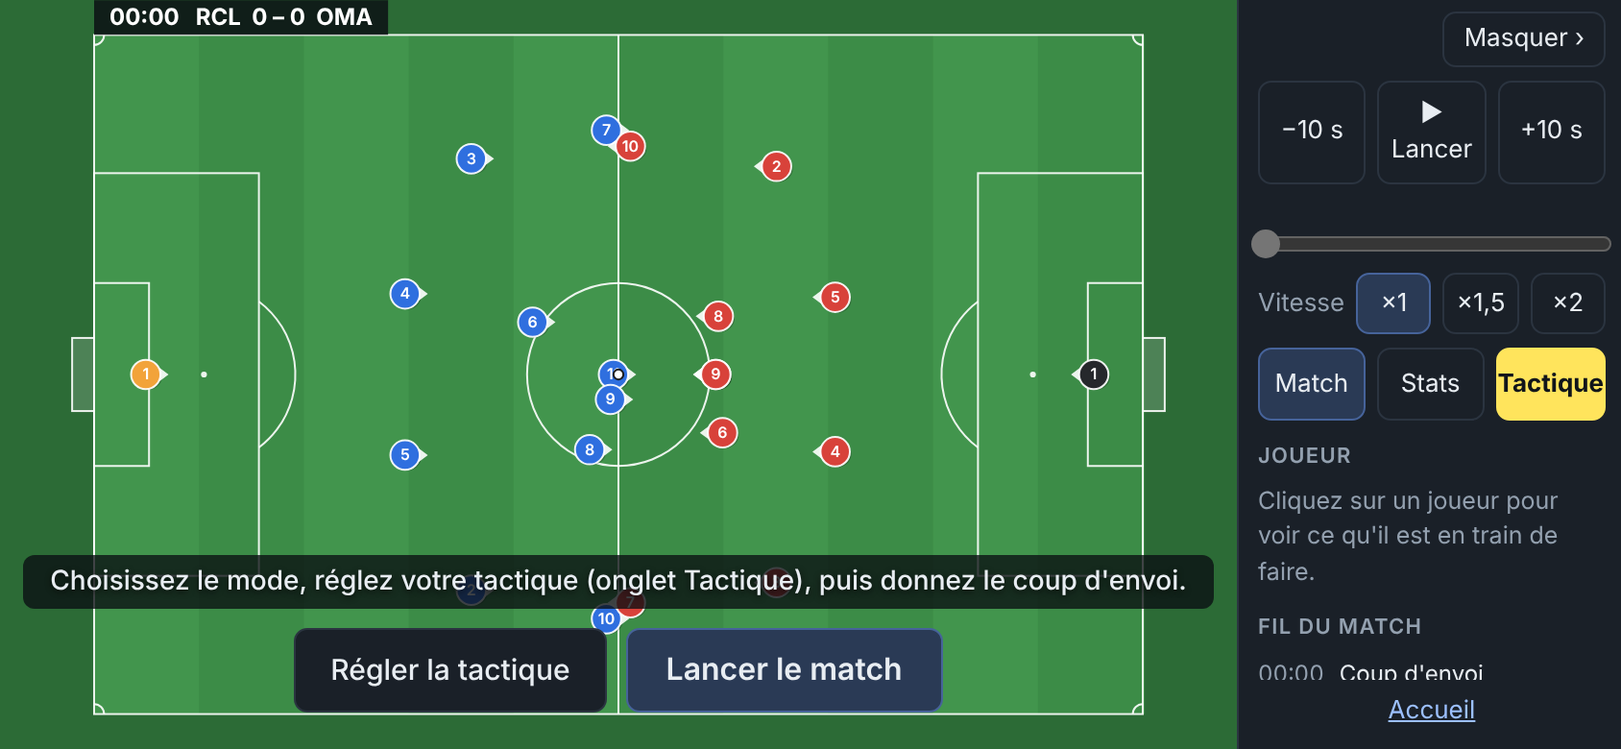
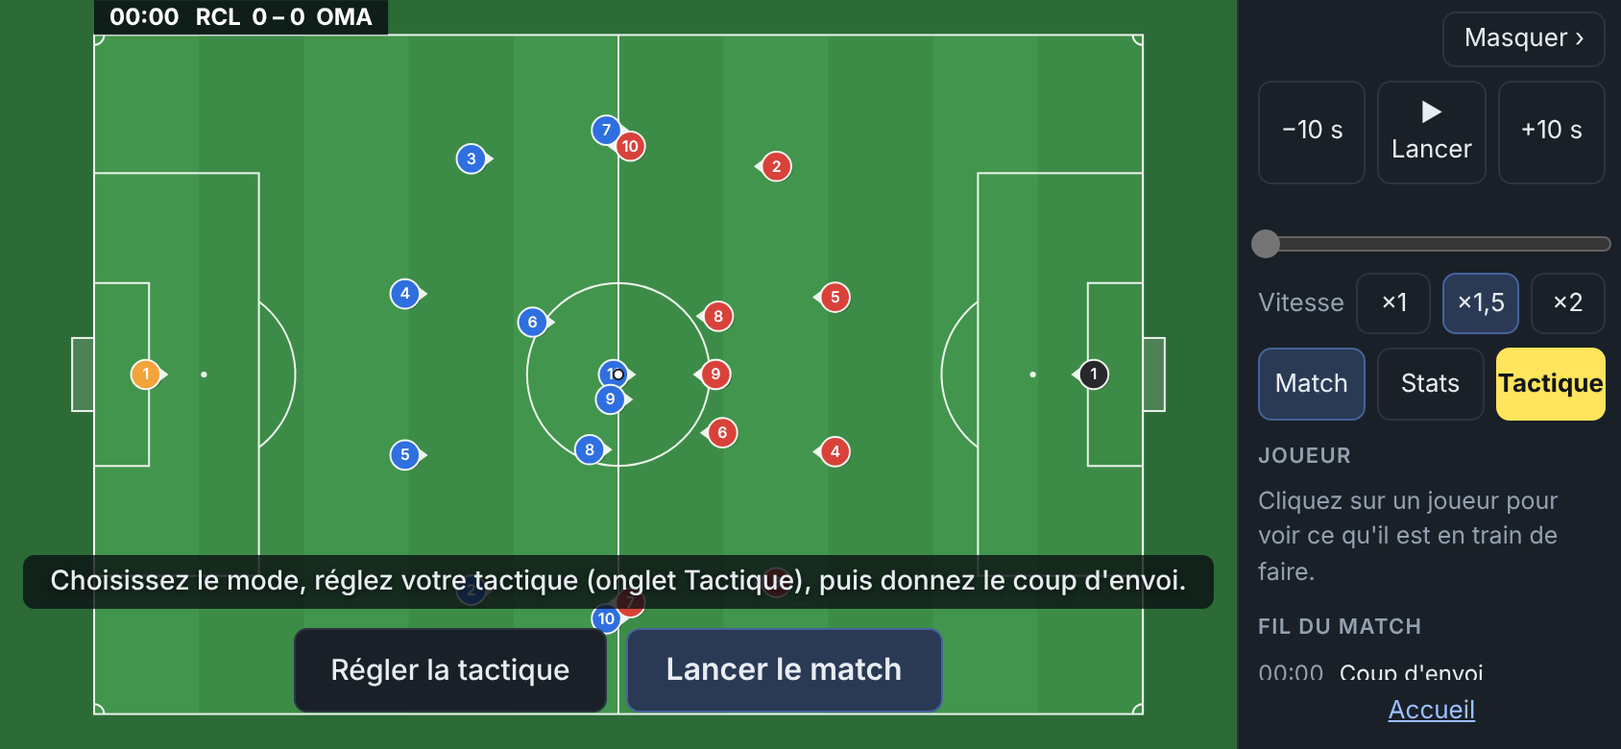
Temps faibles lus à ×10 et vitesse ×1,5 par défaut
Claude-Session: https://claude.ai/code/session_01JE8fKzMuvQtjsPz4c7PEni

Changed region(s): [[0.8318, 0.3385, 0.955, 0.4615]]

diff --git a/match.html b/match.html
@@ -261,7 +261,7 @@
       <div class="pre" id="pre" hidden><div>Choisissez le mode, réglez votre tactique (onglet Tactique), puis donnez le coup d'envoi.</div><div class="row"><button id="preTac">Régler la tactique</button><button id="kick" class="main">Lancer le match</button></div></div>
       <div class="busy" id="busy" hidden><div class="spin" aria-hidden="true"></div><span>Calcul du match…</span></div>
       <div class="tip" id="tip" hidden></div>
-      <div class="ff" id="ff" hidden>⏩ temps faible ×8</div>
+      <div class="ff" id="ff" hidden>⏩ temps faible ×10</div>
       <div class="tacview" id="tacView" hidden>
         <div class="tvpitch">
           <div class="tvhead"><button class="phoneonly" id="tvBack">← Retour au match</button><span class="group godonly" id="tvTeams"><button data-tv-team="0" class="on">Bleus</button><button data-tv-team="1">Rouges</button></span><span class="tvforms" id="tvForms"></span></div>
@@ -309,12 +309,12 @@
       <button id="play">Pause</button>
       <span class="group"><button id="back" title="Reculer de 10 secondes">−10 s</button><button id="fwd" title="Avancer de 10 secondes">+10 s</button></span>
       <span class="group">Vitesse
-        <button data-speed="1" class="on">×1</button><button data-speed="1.5">×1,5</button><button data-speed="2">×2</button>
+        <button data-speed="1">×1</button><button data-speed="1.5" class="on">×1,5</button><button data-speed="2">×2</button>
       </span>
       <label class="godonly"><input type="checkbox" id="intents"> Montrer où chaque joueur veut aller</label>
       <label class="godonly"><input type="checkbox" id="labels"> Montrer l'intention de chaque joueur</label>
       <label title="Pendant un arrêt de jeu (touche, coup franc, sortie de but…), la lecture va six fois plus vite"><input type="checkbox" id="skip" checked> Passer vite les arrêts de jeu</label>
-      <label title="Temps forts (lus à la vitesse choisie) : les actions qui finissent en tir, et les moments où une équipe a le ballon dans les 25 derniers mètres. Le reste passe à ×8."><input type="checkbox" id="hl" checked> Accélérer les temps faibles (×8)</label>
+      <label title="Temps forts (lus à la vitesse choisie) : les actions qui finissent en tir, et les moments où une équipe a le ballon dans les 25 derniers mètres. Le reste passe à ×10."><input type="checkbox" id="hl" checked> Accélérer les temps faibles (×10)</label>
       <span class="group" style="margin-left: auto">Durée
         <select id="duration"><option value="5400" selected>90 min</option><option value="2700">45 min</option><option value="1200">20 min</option><option value="600">10 min (essais)</option></select>
       </span>
@@ -572,8 +572,8 @@ const CROSS_BLOCK = 0.55;     // centre contré : chance maximale qu'un adversai
 const CROSS_MARK = 1;      // centre possible : marquage serré dans la surface
 const CALM_SHOT = 0.35;     // sang-froid (rien à 14) : écart du tir, en face-à-face en entier, sinon selon la pression ; à 18, 35 % d'écart en moins, à 10, 35 % en plus
 const CALM_PASS = 0.35;     // sang-froid : ce que la pression ajoute à l'écart d'une passe, 35 % de moins à 18, 35 % de plus à 10
-const PLACE_DEPTH = 1.2;    // placement (rien à 14) : un défenseur bien placé marque 1,2 m plus côté but à 18 (1,2 m moins à 10) et suit mieux les appels
-const PLACE_GAP = 0.4;      // placement au-dessus de 14 : en défense, il referme le trou avec le partenaire le plus proche (au-delà de 12 m)
+const PLACE_DEPTH = 0.8;    // placement (rien à 14) : un défenseur bien placé marque 0,8 m plus côté but à 18 (0,8 m moins à 10) et suit mieux les appels
+const PLACE_GAP = 0.3;      // placement au-dessus de 14 : en défense, il referme le trou avec le partenaire le plus proche (au-delà de 12 m)
 const RUN_WAIT = 0.3;       // appels au-dessus de 14 : il part au bon moment, quand le porteur est libre de donner (pression sous 0,4 à 18 au lieu de 0,7)
 const RUN_EARLY = 3;
 const RUN_SOON = 0.7;       // appels sous 14 : un receveur lancé, à moins de 5 m de la ligne, part trop tôt et se fait prendre hors-jeu (7 fois sur 10 à 10)        // appels sous 14 : il traîne jusqu'à 3 m en position de hors-jeu (à 10)
@@ -954,7 +954,7 @@ function oppDist(O, x, y) { let dmin = 99; for (const o of O.players) { const dd
 function think(m, p) {
   const base = p.role === 'GK' ? 0.16 : (0.36 - 0.14 * p.a.decisions) * (1 + 0.6 * (1 - p.stam));      // fatigué, on réagit moins vite
   p.nextThink = m.t + base * (0.75 + 0.5 * m.rng());
-  const sd = 1.6 * (1.3 - p.a.positioning) * (1 + 1.5 * clamp((LEVEL - p.a.positioning) / 0.2, 0, 1));      // écart personnel à la position théorique (sous 14, il dérive bien plus)
+  const sd = 1.6 * (1.3 - p.a.positioning) * (1 + 0.8 * clamp((LEVEL - p.a.positioning) / 0.2, 0, 1));      // écart personnel à la position théorique (sous 14, il dérive bien plus)
   p.driftX = p.driftX * 0.9 + m.gauss() * sd * 0.44; p.driftY = p.driftY * 0.9 + m.gauss() * sd * 0.44;
   if (p.stunUntil > m.t) return;
   const w = m.wall;
@@ -2381,9 +2381,9 @@ return { create, add, rows, rowsOf, highlights };
   // tac0 : consignes au coup d'envoi ; changes : changements faits en cours de match ({ tick, team, key, v }).
   // pending : avant le coup d'envoi. Le terrain est en place, on règle les consignes, rien n'est encore calculé.
   let seed = 1, duration = 5400, tac0 = [blank(), blank()], changes = [], pending = true;
-  let rec = null, view = null, cur = 0, end = 5400, playing = false, scrub = false, speed = 1, last = 0;
+  let rec = null, view = null, cur = 0, end = 5400, playing = false, scrub = false, speed = 1.5, last = 0;
   let selected = -1, shown = 0, W = 0, H = 0, nextHud = 0, series = null, rate = 1;
-  const FAST = 8;      // vitesse des temps faibles
+  const FAST = 10;      // vitesse des temps faibles
   // page Statistiques : onglet, équipe, carte (chaleur ou réseau de passes), joueur de la carte de chaleur (-1 : toute l'équipe)
   // mode God : tout voir, régler les deux équipes ; mode Coach It : les Bleus seulement, sans voir la suite (live : jusqu'où le match a été joué)
   let mode = 'god', live = 0, marked = -1;
@@ -2829,7 +2829,7 @@ return { create, add, rows, rowsOf, highlights };
       const fc = Math.min(Math.floor(cur / DT), rec.n - 1), weak = !pending && $('hl').checked && rec.hl && !rec.hl.on[fc];
       if (playing && !pending && !scrub && !series && $('busy').hidden) {
         const dead = $('skip').checked && rec.D[fc];
-        const want = Math.max(speed * (dead ? 6 : 1), weak ? Math.max(FAST, speed) : 0);      // temps faible : ×8 (ou la vitesse choisie si elle est plus grande)
+        const want = Math.max(speed * (dead ? 6 : 1), weak ? Math.max(FAST, speed) : 0);      // temps faible : ×10 (ou la vitesse choisie si elle est plus grande)
         rate += (want - rate) * Math.min(1, dt * 5);                     // on change de vitesse en douceur
         cur = Math.min(end, cur + dt * rate); if (cur >= end) { playing = false; nextHud = 0; }
         if (job && !job.done) cur = Math.min(cur, (rec.n - 1) * DT); }      // pas plus loin que ce qui est calculé

diff --git a/page-match.html b/page-match.html
@@ -261,7 +261,7 @@
       <div class="pre" id="pre" hidden><div>Choisissez le mode, réglez votre tactique (onglet Tactique), puis donnez le coup d'envoi.</div><div class="row"><button id="preTac">Régler la tactique</button><button id="kick" class="main">Lancer le match</button></div></div>
       <div class="busy" id="busy" hidden><div class="spin" aria-hidden="true"></div><span>Calcul du match…</span></div>
       <div class="tip" id="tip" hidden></div>
-      <div class="ff" id="ff" hidden>⏩ temps faible ×8</div>
+      <div class="ff" id="ff" hidden>⏩ temps faible ×10</div>
       <div class="tacview" id="tacView" hidden>
         <div class="tvpitch">
           <div class="tvhead"><button class="phoneonly" id="tvBack">← Retour au match</button><span class="group godonly" id="tvTeams"><button data-tv-team="0" class="on">Bleus</button><button data-tv-team="1">Rouges</button></span><span class="tvforms" id="tvForms"></span></div>
@@ -309,12 +309,12 @@
       <button id="play">Pause</button>
       <span class="group"><button id="back" title="Reculer de 10 secondes">−10 s</button><button id="fwd" title="Avancer de 10 secondes">+10 s</button></span>
       <span class="group">Vitesse
-        <button data-speed="1" class="on">×1</button><button data-speed="1.5">×1,5</button><button data-speed="2">×2</button>
+        <button data-speed="1">×1</button><button data-speed="1.5" class="on">×1,5</button><button data-speed="2">×2</button>
       </span>
       <label class="godonly"><input type="checkbox" id="intents"> Montrer où chaque joueur veut aller</label>
       <label class="godonly"><input type="checkbox" id="labels"> Montrer l'intention de chaque joueur</label>
       <label title="Pendant un arrêt de jeu (touche, coup franc, sortie de but…), la lecture va six fois plus vite"><input type="checkbox" id="skip" checked> Passer vite les arrêts de jeu</label>
-      <label title="Temps forts (lus à la vitesse choisie) : les actions qui finissent en tir, et les moments où une équipe a le ballon dans les 25 derniers mètres. Le reste passe à ×8."><input type="checkbox" id="hl" checked> Accélérer les temps faibles (×8)</label>
+      <label title="Temps forts (lus à la vitesse choisie) : les actions qui finissent en tir, et les moments où une équipe a le ballon dans les 25 derniers mètres. Le reste passe à ×10."><input type="checkbox" id="hl" checked> Accélérer les temps faibles (×10)</label>
       <span class="group" style="margin-left: auto">Durée
         <select id="duration"><option value="5400" selected>90 min</option><option value="2700">45 min</option><option value="1200">20 min</option><option value="600">10 min (essais)</option></select>
       </span>
@@ -371,9 +371,9 @@
   // tac0 : consignes au coup d'envoi ; changes : changements faits en cours de match ({ tick, team, key, v }).
   // pending : avant le coup d'envoi. Le terrain est en place, on règle les consignes, rien n'est encore calculé.
   let seed = 1, duration = 5400, tac0 = [blank(), blank()], changes = [], pending = true;
-  let rec = null, view = null, cur = 0, end = 5400, playing = false, scrub = false, speed = 1, last = 0;
+  let rec = null, view = null, cur = 0, end = 5400, playing = false, scrub = false, speed = 1.5, last = 0;
   let selected = -1, shown = 0, W = 0, H = 0, nextHud = 0, series = null, rate = 1;
-  const FAST = 8;      // vitesse des temps faibles
+  const FAST = 10;      // vitesse des temps faibles
   // page Statistiques : onglet, équipe, carte (chaleur ou réseau de passes), joueur de la carte de chaleur (-1 : toute l'équipe)
   // mode God : tout voir, régler les deux équipes ; mode Coach It : les Bleus seulement, sans voir la suite (live : jusqu'où le match a été joué)
   let mode = 'god', live = 0, marked = -1;
@@ -819,7 +819,7 @@
       const fc = Math.min(Math.floor(cur / DT), rec.n - 1), weak = !pending && $('hl').checked && rec.hl && !rec.hl.on[fc];
       if (playing && !pending && !scrub && !series && $('busy').hidden) {
         const dead = $('skip').checked && rec.D[fc];
-        const want = Math.max(speed * (dead ? 6 : 1), weak ? Math.max(FAST, speed) : 0);      // temps faible : ×8 (ou la vitesse choisie si elle est plus grande)
+        const want = Math.max(speed * (dead ? 6 : 1), weak ? Math.max(FAST, speed) : 0);      // temps faible : ×10 (ou la vitesse choisie si elle est plus grande)
         rate += (want - rate) * Math.min(1, dt * 5);                     // on change de vitesse en douceur
         cur = Math.min(end, cur + dt * rate); if (cur >= end) { playing = false; nextHud = 0; }
         if (job && !job.done) cur = Math.min(cur, (rec.n - 1) * DT); }      // pas plus loin que ce qui est calculé

diff --git a/tools/highlights.js b/tools/highlights.js
@@ -1,9 +1,9 @@
 // Temps forts : combien de temps un match se lit à vitesse normale, et combien de temps dure la lecture entière
-// avec les temps faibles en accéléré (×8) et les arrêts de jeu passés vite (×6).
+// avec la vitesse par défaut (×1,5), les temps faibles en accéléré (×10) et les arrêts de jeu passés vite (×6), comme la page.
 // Usage : node tools/highlights.js [matchs] [équipe des Bleus] [équipe des Rouges]   (ex. : node tools/highlights.js 10 equipe=elite equipe=faible)
 const E = require('../engine.js'), St = require('../stats.js'), Eq = require('../equipes.js');
 const n = +process.argv[2] || 10, sides = [Eq.side(process.argv[3]), Eq.side(process.argv[4])];
-const FAST = 8, DEAD = 6;
+const FAST = 10, DEAD = 6, SPEED = 1.5;
 let hot = 0, play = 0, watch = 0, parts = 0, shotsIn = 0, shots = 0, all = 0;
 for (let i = 0; i < n; i++) {
   const m = E.createMatch({ seed: 500 + i, duration: 5400, tactics: sides.map(s => s.tactics), teams: sides.map(s => s.team), formations: sides.map(s => s.formation) });
@@ -15,7 +15,7 @@ for (let i = 0; i < n; i++) {
     const dt = E.DT; all += dt;
     if (!D[f]) play += dt;
     if (H.on[f] && !D[f]) hot += dt;
-    watch += dt / (H.on[f] ? (D[f] ? DEAD : 1) : Math.max(FAST, D[f] ? DEAD : 1));
+    watch += dt / Math.max(SPEED * (D[f] ? DEAD : 1), H.on[f] ? 0 : Math.max(FAST, SPEED));
   }
   parts += H.parts.length;
   for (const e of m.events) if (e.kind === 'shot' || e.kind === 'save' || e.kind === 'block' || e.kind === 'goal') { shots++; if (H.on[Math.round(e.t / E.DT)]) shotsIn++; }
@@ -25,4 +25,4 @@ console.log(n + ' matchs de 90 min');
 console.log('  ballon en jeu : ' + mn(play) + ' min par match, dont ' + mn(hot) + ' min de temps forts (' + Math.round(100 * hot / play) + ' %)');
 console.log('  temps forts : ' + (parts / n).toFixed(1).replace('.', ',') + ' par match, ' + (hot / parts).toFixed(0) + ' s en moyenne');
 console.log('  tirs dans un temps fort : ' + shotsIn + ' sur ' + shots);
-console.log('  durée de la lecture à ×1 (temps faibles ×' + FAST + ', arrêts de jeu ×' + DEAD + ') : ' + mn(watch) + ' min (sans accéléré des temps faibles : ' + mn(play + (all - play) / DEAD) + ' min)');
+console.log('  durée de la lecture à ×' + SPEED + ' (temps faibles ×' + FAST + ', arrêts de jeu ×' + DEAD + ') : ' + mn(watch) + ' min (sans accéléré des temps faibles : ' + mn((play + (all - play) / DEAD) / SPEED) + ' min)');

diff --git a/tools/fin.js b/tools/fin.js
@@ -26,7 +26,8 @@ const secs = s => { const m = /^(\d+):(\d+)/.exec(s); return 60 * +m[1] + +m[2];
   await page.waitForFunction(() => document.body.dataset.calcul === 'fini', null, { timeout: 60000 });      // le match se calcule en arrière-plan
   const bands = (await page.$$('#hlBands i')).length;
   check(bands > 30, 'les temps forts sont dessinés sur la barre de temps', bands + ' temps forts');
-  // vitesse ×1 : en temps faible l'horloge file à ×8, en temps fort elle avance normalement
+  // vitesse ×1 : en temps faible l'horloge file à ×10, en temps fort elle avance normalement
+  await page.click('[data-speed="1"]');
   const pace = async want => {
     await page.waitForFunction(w => document.getElementById('ff').hidden === !w && !document.querySelector('.stage').classList.contains('x'), want, { timeout: 60000 });
     await page.waitForTimeout(700);
@@ -35,7 +36,7 @@ const secs = s => { const m = /^(\d+):(\d+)/.exec(s); return 60 * +m[1] + +m[2];
     return (secs(await page.textContent('#clock')) - a) / 2;
   };
   const weak = await pace(true);
-  check(weak != null && weak >= 5, 'temps faible : la lecture va environ 8 fois plus vite, et le repère « ⏩ » s\'affiche', weak + ' s de match par seconde');
+  check(weak != null && weak >= 5, 'temps faible : la lecture va environ 10 fois plus vite, et le repère « ⏩ » s\'affiche', weak + ' s de match par seconde');
   const strong = await pace(false);
   check(strong != null && strong <= 3, 'temps fort : retour à la vitesse choisie (×1)', strong + ' s de match par seconde (arrêts de jeu ×6 compris)');
   await page.uncheck('#hl'); await page.waitForTimeout(400);

diff --git a/CLAUDE.md b/CLAUDE.md
@@ -61,7 +61,7 @@ Comment la page fonctionne (mode God) :
 
 **L'adversaire (les Rouges) fait ses remplacements tout seul** : à partir de 60 % du match, à un arrêt de jeu, son joueur de champ le plus fatigué (sous 80 % de fraîcheur) laisse la place au meilleur remplaçant de son poste ; deux changements jusqu'à 72 % du match, quatre jusqu'à 84 %, puis cinq. Les Bleus ne changent que si on le demande.
 
-Aussi dans la page : chrono façon télé dans le coin du terrain (temps, score, « Arrêt de jeu »), vitesse ×1, ×1,5 ou ×2 (n° 103 : avec l'accéléré des temps faibles, il n'en faut pas plus ; avant : ×1 à ×16), clic sur un joueur pour lire ce qu'il fait (s'il suit ou non une consigne, sa fraîcheur, ses notes), case pour voir où chaque joueur veut aller, case pour écrire sous chaque joueur son intention (« Presse le n°7 », « Se démarque »… ; capture `docs/intentions.png`), choix de la durée (90, 45, 20 ou 10 minutes). Les statistiques ont une ligne « Fraîcheur des joueurs » : c'est là qu'on voit ce que coûte un pressing.
+Aussi dans la page : chrono façon télé dans le coin du terrain (temps, score, « Arrêt de jeu »), vitesse ×1, ×1,5 (par défaut depuis le n° 109) ou ×2 (n° 103 : avec l'accéléré des temps faibles, il n'en faut pas plus ; avant : ×1 à ×16), clic sur un joueur pour lire ce qu'il fait (s'il suit ou non une consigne, sa fraîcheur, ses notes), case pour voir où chaque joueur veut aller, case pour écrire sous chaque joueur son intention (« Presse le n°7 », « Se démarque »… ; capture `docs/intentions.png`), choix de la durée (90, 45, 20 ou 10 minutes). Les statistiques ont une ligne « Fraîcheur des joueurs » : c'est là qu'on voit ce que coûte un pressing.
 
 **Onglet « Statistiques »** (au-dessus du terrain, à côté de « Match ») : il remplace le terrain par les chiffres ou par une carte, calculés jusqu'à l'instant affiché par la barre de temps.
 
@@ -73,7 +73,7 @@ Aussi dans la page : chrono façon télé dans le coin du terrain (temps, score,
 
 Les arrêts de jeu ont une durée réaliste (une touche 17 secondes, une sortie de but 30, un corner 34…). Pour ne pas attendre, la case « Passer vite les arrêts de jeu » (cochée par défaut) les lit six fois plus vite.
 
-**Temps forts** (n° 101, case « Accélérer les temps faibles (×8) », cochée par défaut). Un temps fort se lit à la vitesse choisie, le reste passe à ×8 (ou à la vitesse choisie si elle est plus grande), avec un repère « ⏩ temps faible ×8 » sur le terrain ; la vitesse change en douceur. Choix de Frédéric : un temps fort, c'est **une action qui finit en tir** (les 10 secondes avant un tir, un but ou un penalty, et 3 secondes après, 5 après un but) **ou une équipe avec le ballon dans les 25 derniers mètres** (au moins 1,5 seconde, avec 5 secondes d'élan avant et 1,5 après) ; deux temps forts séparés de moins de 6 secondes n'en font qu'un. Calcul dans `stats.js` (`highlights`), après le calcul du match : la page connaît la suite, y compris en Coach It (comme un résumé télé : on sait qu'il va se passer quelque chose, pas quoi). Les temps forts sont tracés en jaune sous les repères de la barre de temps (en Coach It, seulement jusqu'au direct). Mesuré (`node tools/highlights.js 10`) : 12 minutes de temps forts par match de 90 minutes, environ 56 actions de 13 secondes, tous les tirs compris ; la lecture d'un match passe de 74 à 22 minutes (Élite contre Faible : 13,5 minutes de temps forts, 24 minutes de lecture).
+**Temps forts** (n° 101, case « Accélérer les temps faibles (×10) », cochée par défaut ; ×8 avant le n° 109). Un temps fort se lit à la vitesse choisie, le reste passe à ×10 (ou à la vitesse choisie si elle est plus grande), avec un repère « ⏩ temps faible ×8 » sur le terrain ; la vitesse change en douceur. Choix de Frédéric : un temps fort, c'est **une action qui finit en tir** (les 10 secondes avant un tir, un but ou un penalty, et 3 secondes après, 5 après un but) **ou une équipe avec le ballon dans les 25 derniers mètres** (au moins 1,5 seconde, avec 5 secondes d'élan avant et 1,5 après) ; deux temps forts séparés de moins de 6 secondes n'en font qu'un. Calcul dans `stats.js` (`highlights`), après le calcul du match : la page connaît la suite, y compris en Coach It (comme un résumé télé : on sait qu'il va se passer quelque chose, pas quoi). Les temps forts sont tracés en jaune sous les repères de la barre de temps (en Coach It, seulement jusqu'au direct). Mesuré (`node tools/highlights.js 10`) : 12 minutes de temps forts par match de 90 minutes, environ 56 actions de 13 secondes, tous les tirs compris ; la lecture d'un match passe de 74 à 22 minutes (Élite contre Faible : 13,5 minutes de temps forts, 24 minutes de lecture).
 
 **Carte de fin de match** (n° 101) : au coup de sifflet final, une image remplace le terrain. Elle montre le score, les buteurs et leurs minutes, la **courbe de domination** (une barre par moment du match, bleue vers le haut, rouge vers le bas : le temps passé avec le ballon près du but adverse, d'autant plus qu'il est près, plus les occasions ; les buts sont posés dessus), sept chiffres clés (possession, tirs, tirs cadrés, buts attendus, passes réussies, corners, fautes) et **l'homme du match** : la meilleure note sur 10, calculée par la page (6 de base, plus les buts, les passes décisives, les tirs cadrés, les arrêts, les tirs contrés, les passes réussies et leur précision, le résultat ; moins les buts contre son camp, et les buts encaissés pour un gardien). Boutons « Enregistrer l'image » (fichier `match-<équipes>-<numéro>.png`), « Revoir depuis le début », « Jouer un autre match ». Dessin dans `render.js` (`drawSummary`), données dans `page-match.html` (`summaryData`). Captures `docs/fin-de-match.png`, `docs/fin-de-match-page.png`, et sur téléphone `docs/telephone-fin.png`.
 
@@ -670,6 +670,7 @@ Sixième séance (9 octobre 2026) : axe « niveaux », en commençant par la pos
 | 106 | Réponses de Frédéric (13 octobre 2026) : ajouter le 3-4-2-1 ; il retouchera lui-même les notes estimées ; retirer partout la mention de la source des notes (« c'était juste pour avoir une base de note ») ; donner à chaque club le style de son entraîneur | Moteur : formation 3-4-2-1 (`3421` : trois centraux, deux pistons, deux milieux axiaux, deux milieux offensifs derrière l'avant-centre) ; `createMatch` prend les `consignes` de l'équipe du fichier par défaut. Lens et Lorient en 3-4-2-1. `consignes` pour chaque club (voir « Les clubs de Ligue 1 »), reprises par la page équipe (club choisi) et la page de match (adversaire, en God et en Coach It). Ligne `fc` retirée de `equipes.json` et de `build.js` ; sources renommées « détaillé », « note globale », « supposé » ; `tools/ligue1.js` n'écrit plus sans `reecrire` | `check.js 20` sans anomalie ; `tools/page.js`, `tools/tactique.js`, `tools/equipe.js`, `tools/fin.js`, `tools/telephone.js` sans échec. Tournoi (`node tools/levels.js 6 ligue1`, chaque club dans son système et son style ; points par match, possession) : Paris Saint-Qatar 2,88 · 60 % ; Élite 2,59 ; **RC Lentilles 1,77 · 43 % (de 10e à 3e)** ; Lyon 1,58 · 41 % ; Marseille 1,44 · 63 % ; Rennes 1,38 · 41 % ; Monaco 1,35 · 40 % ; Lille 1,26 · 62 % ; Moyen 0,98 ; Strasbourg 0,83 ; Toulouse 0,61 · 61 % ; Lorient 0,50 · 33 %. Lecture : les équipes en jeu court ont le ballon (60 à 63 %) mais marquent peu (Lille 1,23, Toulouse 0,74 but par match) ; les équipes en harceler + bloc haut encaissent beaucoup (2,8) ; Lorient en bloc bas confirme que se regrouper n'aide pas |
 | 107 | Demandes de Frédéric (13 octobre 2026) : séparer « finition » et « frappe de loin » ; titre « L'entraîneur en carton » | Nouvelle note `frappe_de_loin` (21e note). Dans le moteur, la qualité de frappe dépend de la distance au but : finition seule jusqu'à 16 m, frappe de loin seule à partir de 24 m, mélange entre les deux (`strike`) ; elle règle la précision, la puissance et l'estimation du tireur (donc son envie de tirer). Penalty : finition. Un ancien fichier sans frappe de loin prend la finition. Valeurs de départ : équipes de niveau et `joueurs.json`, finition plus un petit écart selon le poste (organisateur +1, avant-centre −1, défenseurs −1, sinon égal) ; clubs, d'après le tir du profil (milieux un peu au-dessus de leur finition, avant-centres en dessous). Fiche du joueur en match : « Frappe de loin » remplace « Goût du risque ». Budget recalculé : 27 M€. Titre de l'accueil, du match et de la page équipe | Avec frappe de loin = finition, matchs identiques au chiffre près (4 affiches). Équipe standard inchangée (toutes les notes à 14). Élite contre Faible (120 matchs, tirs de l'Élite hors coups de pied arrêtés) : de près 33,8 → 36,0 % de buts, de loin (18 m et plus) 4,9 → 6,2 % ; écarts de l'ordre du hasard sur 120 matchs. `check.js 20` sans anomalie ; `tools/page.js`, `tools/tactique.js`, `tools/equipe.js` (21 notes), `tools/fin.js`, `tools/telephone.js` sans échec |
 | 108 | Définitions de Frédéric (13 octobre 2026). Sang-froid : joue dans les face-à-face et quand le joueur est pressé. Placement : lecture du jeu, bien orienté pour protéger sa profondeur, jamais trop loin d'un partenaire. Appels : la fréquence et le timing (un mauvais est souvent hors-jeu). Avant : placement = petit écart à la position théorique ; appels = fréquence seulement ; sang-froid = erreurs de choix sous pression et duels | Rien ne change à 14. **Sang-froid** : l'écart du tir est réduit (ou grossi) de 35 % entre 14 et 18 (ou 10), en entier en face-à-face (personne entre lui et le but, peu pressé ; `m.shot.face`) et sur penalty, sinon selon la pression ; ce que la pression ajoute à l'écart d'une passe aussi (`CALM_SHOT`, `CALM_PASS`). **Placement** : un défenseur bien placé marque côté but (`PLACE_DEPTH` = 0,8 m) et suit mieux les appels ; au-dessus de 14, il referme le trou avec le partenaire le plus proche de sa ligne au-delà de 12 m (`PLACE_GAP`, fiche « Se rapproche du n°… ») ; sous 14, il dérive davantage. **Appels** : au-dessus de 14, il part quand le porteur est libre de donner (`RUN_WAIT`) ; sous 14, il traîne jusqu'à 3 m hors-jeu (`RUN_EARLY`) et, servi lancé à moins de 5 m de la ligne, il est parti trop tôt (`RUN_SOON`). Essai abandonné : le bon attaquant qui freine sur la ligne en attendant la passe (moins de buts : il perdait son élan). Nouvel outil `tools/note.js` (une note imposée aux Bleus, de 8 à 18) ; `tools/penalties.js` accepte une note imposée | Équipes standard identiques au chiffre près. `tools/note.js`, 40 matchs par valeur, à 8 / 14 / 18 : placement, occasions concédées 1,78 / 1,45 / 1,12, passes en profondeur adverses 16 / 12 / 9 ; appels, hors-jeu 1,25 (1,48 à 10) / 0,28 / 0,15 ; sang-froid, penalties (1 500) 61 / 78 / 87 % de buts. Face-à-face dans le jeu : moins d'un par match, trop peu pour mesurer. Tournoi des niveaux (20 matchs par affiche) : un cran d'écart 80 / 65 / 90 % de victoires (Élite – Élevé, Élevé – Moyen, Moyen – Faible ; avant 55 / 55 / 90 sur 20 matchs), Élite 90 % de victoires au total (83 %) : **les écarts se creusent un peu** (cible de Frédéric : environ 70 %). `check.js 20` et tests des pages sans échec |
+| 109 | Frédéric (14 octobre 2026) : un match prend encore 15 à 20 minutes à regarder, « un chouïa long » ; il veut ×10 dans les temps faibles et ×1,5 par défaut | Temps faibles ×10 (×8), vitesse ×1,5 par défaut (×1). `tools/highlights.js` calcule la lecture comme la page | Lecture d'un match de 90 minutes (`node tools/highlights.js 10`) : 15,8 minutes (Élite contre Faible 18,1), dont environ 8 minutes de temps forts. `tools/fin.js` (temps faible lu à ×10,5), `tools/telephone.js`, `tools/page.js` sans échec |
 | 58 | Tournoi complet (`node tools/levels.js 60`) | — | Possession de l'équipe forte contre Faible : 56 à 59 %. Entre niveaux voisins : toujours 48 à 52 %. Élite contre Faible : 10,2 à 0,05. Passes réussies : l'équipe forte n'en réussit toujours pas plus que l'autre contre le même adversaire |
 
 | 59 | Demande de Frédéric : l'équipe forte doit garder le ballon. Découverte : le « goût du risque » de Faible (7,8) la rendait plus prudente que l'Élite (13,9) | Prudence et patience dépendent aussi de la lucidité : un joueur lucide sait ce que coûte une passe forcée et attend avant de forcer (rien à 14) | Seul : +1 à 3 points de possession |
